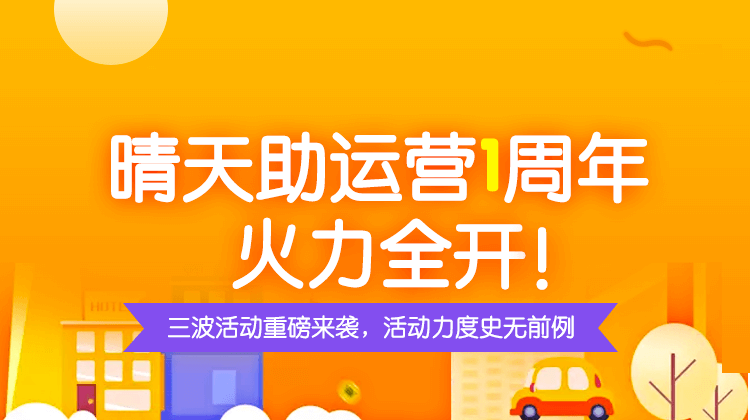
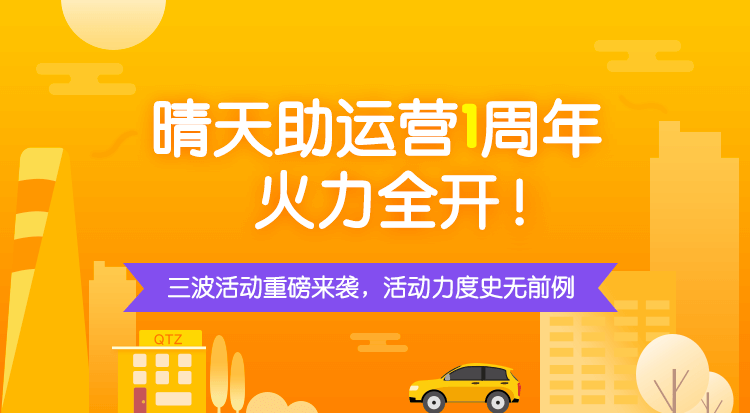
1周年活动最终版

diff --git a/oneYearActivityPC/index.html b/oneYearActivityPC/index.html
@@ -4,30 +4,61 @@
     <meta charset="UTF-8">
     <title>晴天助运营1周年</title>
     <style>
-        *{
+        * {
             margin: 0;
             padding: 0;
         }
-        body{
-            background-color: #ffefb8;
-        }
-        img{
+        a{
             display: block;
-            border: 0;
-            width: 747px;
-            margin: 0 auto;
+            width: 100%;
+        }
+        a:nth-child(1){
+            height: 399px;
+            background: url('pic-1.png') no-repeat center;
+            background-size: 1920px 399px;
+        }
+        a:nth-child(2){
+            height: 655px;
+            background: url('pic-2.png') no-repeat center;
+            background-size: 1920px 655px;
+        }
+        a:nth-child(3){
+            height: 574px;
+            background: url('pic-3.png') no-repeat center;
+            background-size: 1920px 574px;
+        }
+        a:nth-child(4){
+            height: 1606px;
+            background: url('pic-4.png') no-repeat center;
+            background-size: 1920px 1606px;
+        }a:nth-child(5){
+             height: 766px;
+             background: url('pic-5.png') no-repeat center;
+             background-size: 1920px 766px;
+         }
+        span{
+            display: block;
+            width: 240px;
+            height: 53px;
+            margin-left: auto;
+            margin-right: auto;
+            position: relative;
+            top: 426px;
         }
     </style>
 </head>
 <body>
-<div style="margin: 0 auto;width: 1200px;background-color: #ffefb8">
-    <img src="pic-1.png"/>
-    <div style="width: 747px;height: 685px;margin: 0 auto;position: relative">
-        <img src="pic-2.png"/>
-        <a href="https://www.qtz360.com/borrow/list.do" style="width: 252px;height: 60px;position: absolute;top:400px;left: 235px;"></a>
-    </div>
-
-    <img src="pic-3.png"/>
-</div>
+<a></a>
+<a>
+    <span></span>
+</a>
+<a></a>
+<a></a>
+<a></a>
+<script>
+    document.querySelector('span').onclick = function () {
+        window.location.href = 'https://www.qtz360.com/borrow/list.do';
+    }
+</script>
 </body>
 </html>

diff --git a/oneYearActivityApp/index.html b/oneYearActivityApp/index.html
@@ -13,6 +13,7 @@
             margin: 0 ;
             padding: 0;
         }
+        html{font-size: 100px;}
         img{
             width: 100%;
             border: 0;
@@ -66,11 +67,12 @@
     autoSetRem.set(750);
 </script>
 <img src="pic-1.png"/>
-<div style="width: 100%;height: 8.29rem;position: relative">
-    <img src="pic-2.png"/>
-    <a class="link" href="https://www.qtz360.com/h5/home.html#/project/list" style="position: absolute;width: 3.10rem;height: 0.70rem;top: 4.60rem;left: 2.06rem"></a>
+<div style="width: 100%;height: 8.29rem;position: relative;background: url('pic-2.png') no-repeat center;background-size: 100% 100%;">
+    <a class="link" href="https://www.qtz360.com/h5/home.html#/project/list" style="display:block;position: relative;width: 3.35rem;height: 0.76rem;top: 5.25rem;margin-right: auto;margin-left: auto;"></a>
 </div>
 <img src="pic-3.png"/>
+<img src="pic-4.png"/>
+<img src="pic-5.png"/>
 <script src="https://www.qtz360.com/h5/plugins/wxfx.js"></script>
 </body>
 </html>
